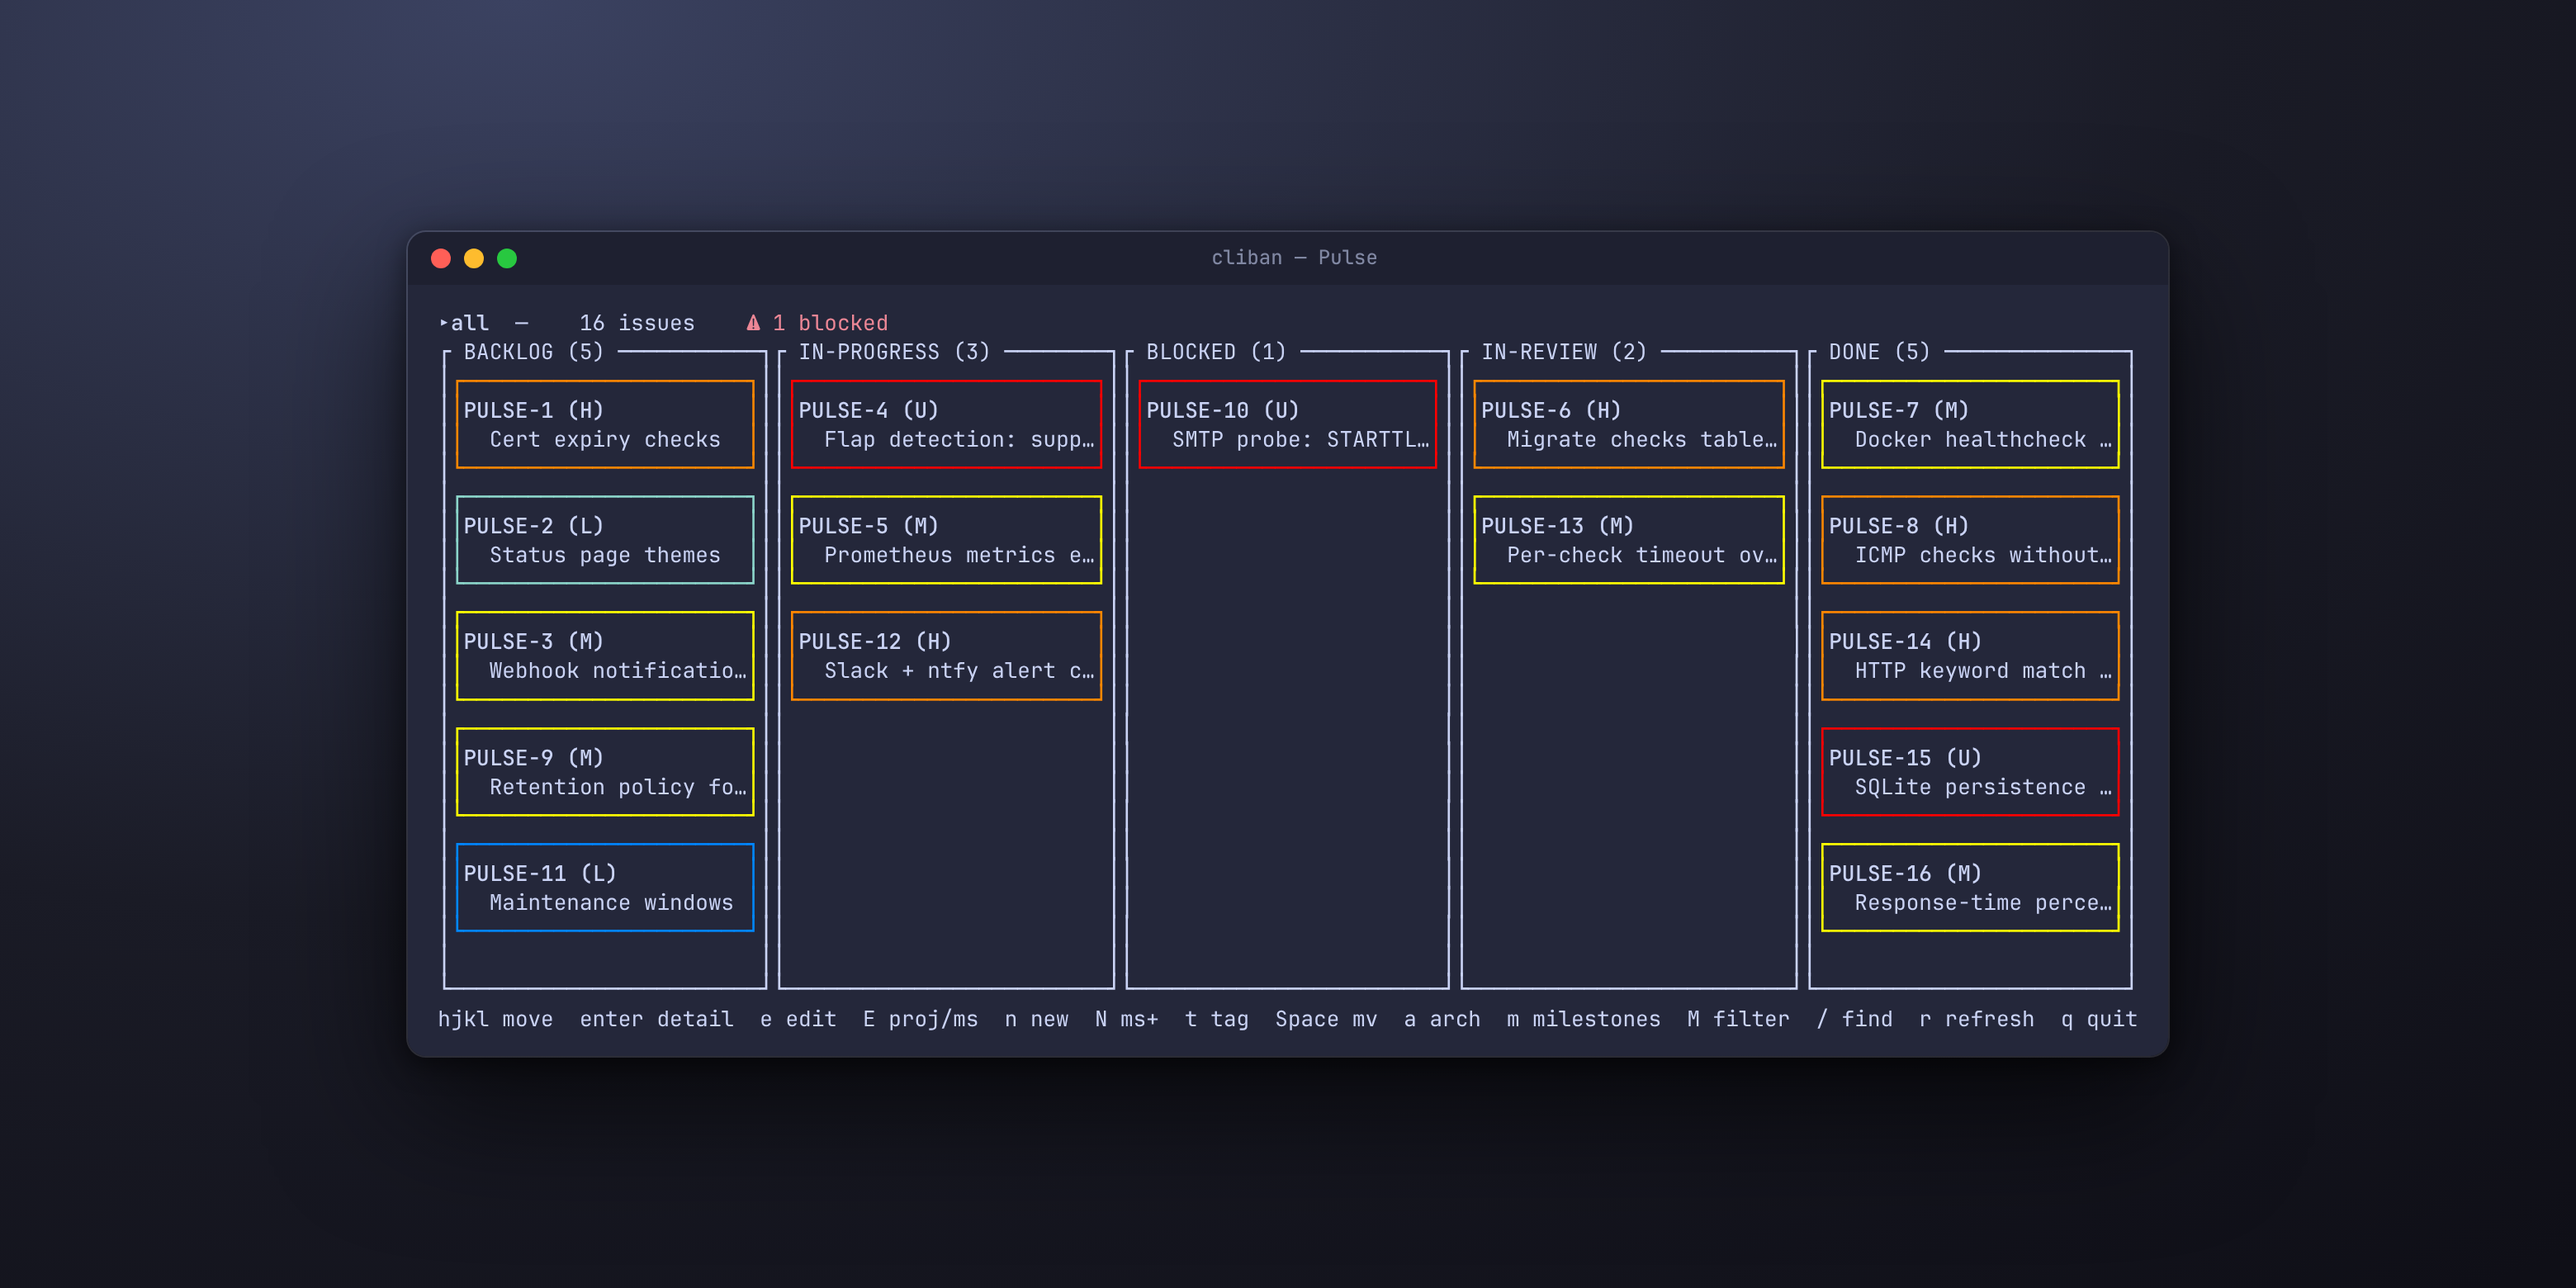
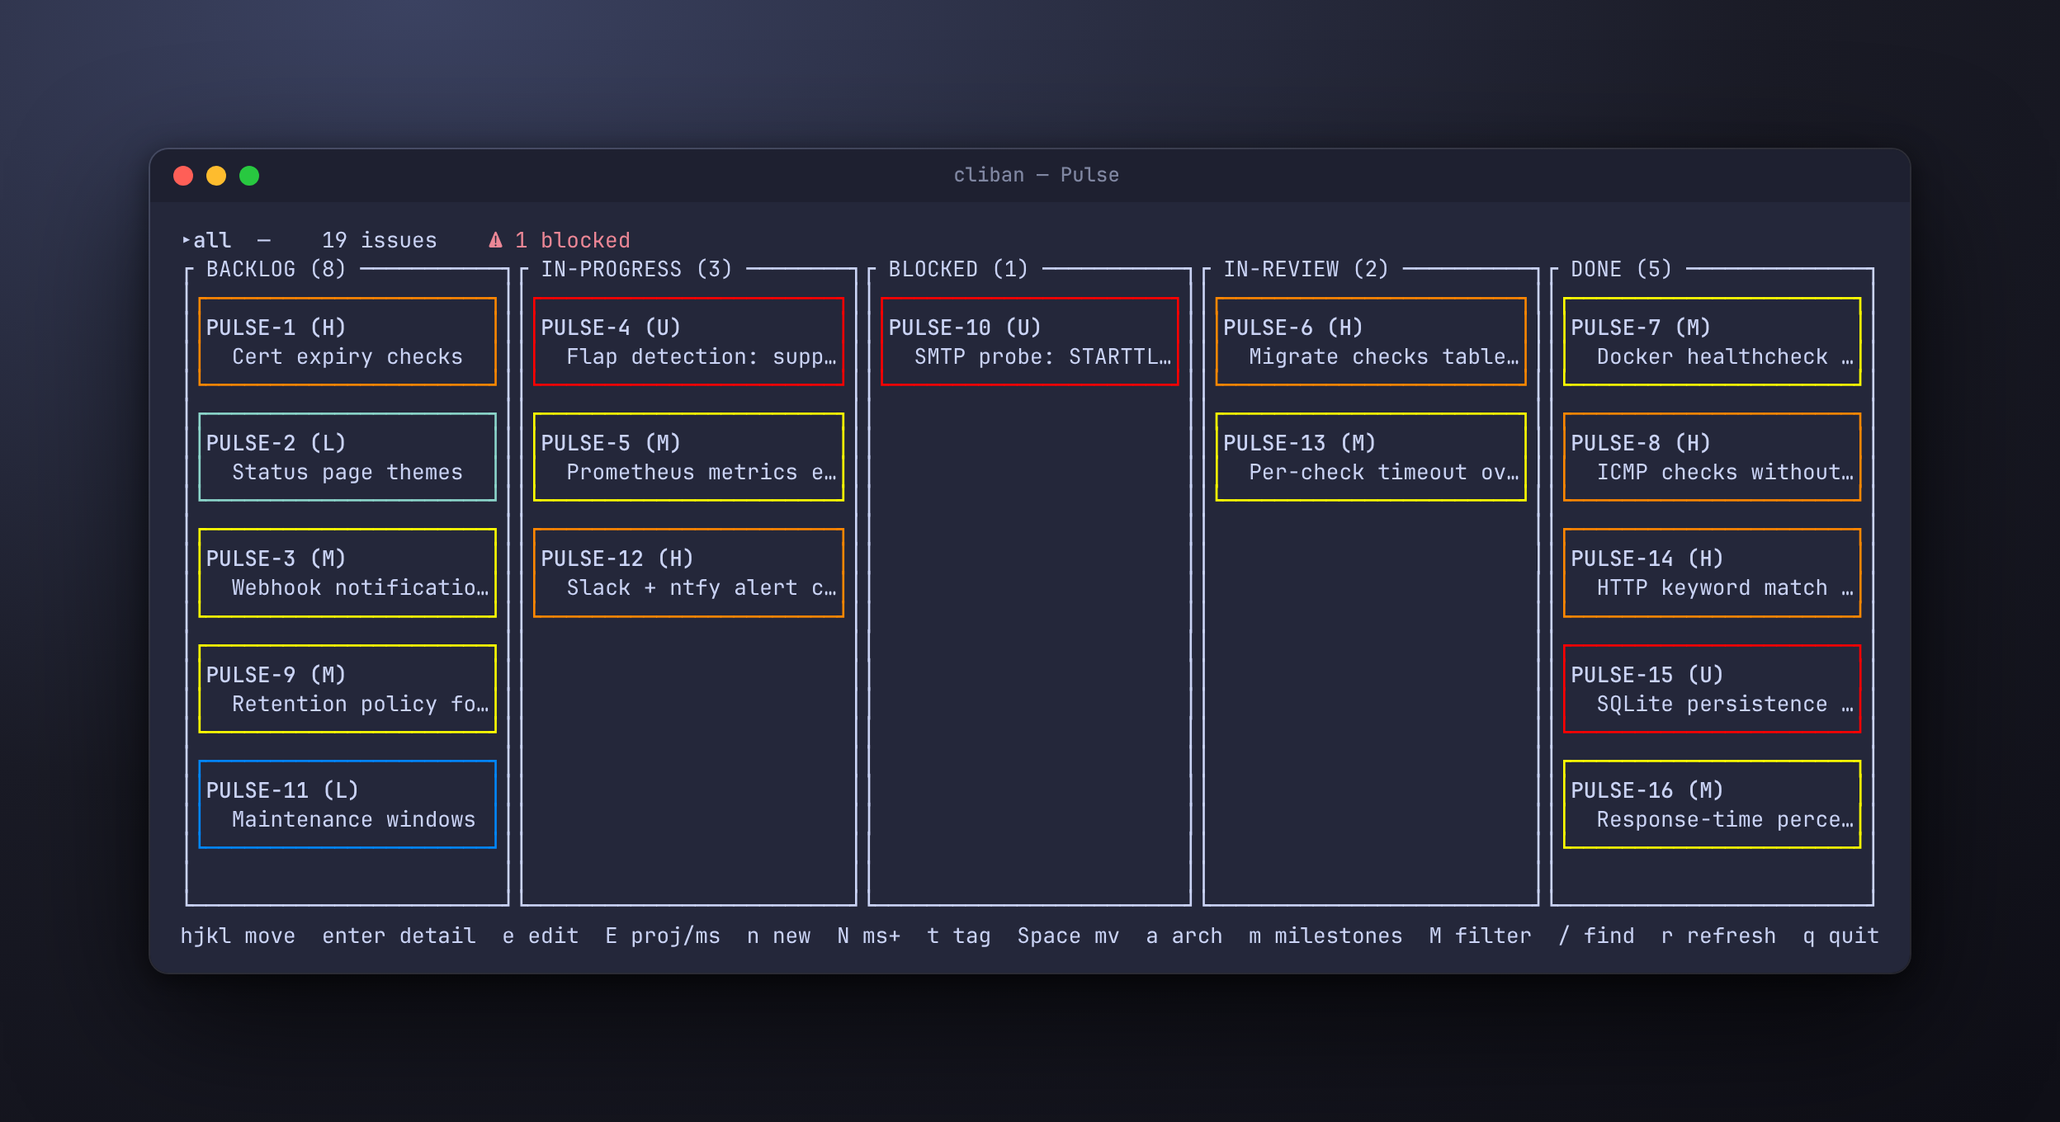
docs: milestone + nvim-editor shots, tight margins, colon-SGR support
shoot.sh now produces all three shots (board, milestone page, issue edit
in nvim) with an auto-measured 90px margin. The ANSI renderer consumes
nvim's colon-form SGR params (4:3 undercurl, 58:2 underline color). The
editor paragraph stops claiming the stubbed CLI --editor path (bug filed)
and points at the TUI's e binding.

Changed region(s): [[0.0625, 0.1235, 0.9375, 0.8956]]

diff --git a/assets/shots/ansi2html.py b/assets/shots/ansi2html.py
@@ -48,11 +48,19 @@ def render(text):
     i = 0
     for line in text.split("\n"):
         pos = 0
-        for m in re.finditer(r"\x1b\[([0-9;]*)m", line):
+        for m in re.finditer(r"\x1b\[([0-9;:]*)m", line):
             buf.append(line[pos:m.start()])
             flush()
             pos = m.end()
-            ps = [int(x) for x in m.group(1).split(";") if x] or [0]
+            toks = m.group(1).split(";")
+            # colon-form params (nvim: 4:3 undercurl, 58:2::r:g:b underline
+            # color) are self-delimited; consume them without styling.
+            ps = []
+            for t in toks:
+                if ":" in t:
+                    continue
+                ps.append(int(t) if t else 0)
+            ps = ps or ([0] if not any(":" in t for t in toks) else ps)
             j = 0
             while j < len(ps):
                 p = ps[j]
@@ -91,10 +99,8 @@ def render(text):
 
 TPL = """<!doctype html><meta charset="utf-8"><style>
 html,body{margin:0;height:100%%}
-body{display:flex;align-items:center;justify-content:center;
-  background:radial-gradient(120%% 130%% at 20%% 0%%,#3b4261 0%%,#1a1b26 55%%,#0f0f17 100%%)}
-.win{border-radius:12px;overflow:hidden;
-  box-shadow:0 30px 80px rgba(0,0,0,.65),0 4px 16px rgba(0,0,0,.5);
+body{display:flex;align-items:center;justify-content:center;%(bodybg)s}
+.win{border-radius:12px;overflow:hidden;%(shadow)s
   border:1px solid rgba(255,255,255,.09)}
 .bar{background:#1e2030;display:flex;align-items:center;padding:10px 14px;gap:8px}
 .dot{width:12px;height:12px;border-radius:50%%}
@@ -110,8 +116,16 @@ pre{margin:0;padding:14px 18px;background:%(bg)s;
 <div class="title">%(title)s</div></div><pre>%(body)s</pre></div></body>
 """
 
-src, dst, title = sys.argv[1], sys.argv[2], sys.argv[3]
+measure = "--measure" in sys.argv
+argv = [a for a in sys.argv if a != "--measure"]
+src, dst, title = argv[1], argv[2], argv[3]
 text = open(src).read().rstrip("\n")
+style = {
+    "bodybg": "" if measure else """
+  background:radial-gradient(120% 130% at 20% 0%,#3b4261 0%,#1a1b26 55%,#0f0f17 100%)""",
+    "shadow": "" if measure else """
+  box-shadow:0 30px 80px rgba(0,0,0,.65),0 4px 16px rgba(0,0,0,.5);""",
+}
 open(dst, "w").write(TPL % {"body": render(text), "title": html.escape(title),
-                            "bg": BG_DEF, "fg": FG_DEF})
+                            "bg": BG_DEF, "fg": FG_DEF, **style})
 print("wrote", dst)

diff --git a/README.md b/README.md
@@ -213,9 +213,10 @@ done-timestamps.
 
 By default `cliban issue add` and `cliban issue edit` never open an editor:
 they fail fast if no content flags are supplied, which is the right behavior
-for agents. Pass `--editor` to opt in to the frontmatter + markdown buffer in
-`$EDITOR` (`$VISUAL` first, falls back to `vi`). Inside the TUI, select a
-card and press `e`.
+for agents. Inside the TUI, select a card and press `e` for the frontmatter
++ markdown buffer in `$EDITOR` (`$VISUAL` first, falls back to `vi`):
+
+<p align="center"><img src="assets/editor.png" width="880" alt="editing an issue in nvim"></p>
 
 ## The description contract
 
@@ -348,7 +349,14 @@ nothing appears twice.
 accepts a duration (`45s`, `90m`, `4h`, `3d`, `2w`), `today`, `yesterday`, a
 bare date (`2026-07-25`), or a full RFC3339 timestamp. All UTC.
 
-## Milestones from the CLI
+## Milestones
+
+The TUI's milestone page (`m`) shows every milestone across projects,
+ordered by recent activity, with progress and a detail pane:
+
+<p align="center"><img src="assets/milestones.png" width="880" alt="the milestone page"></p>
+
+From the CLI:
 
 ```bash
 cliban milestone ls --project PROJ                     # name, status, target
